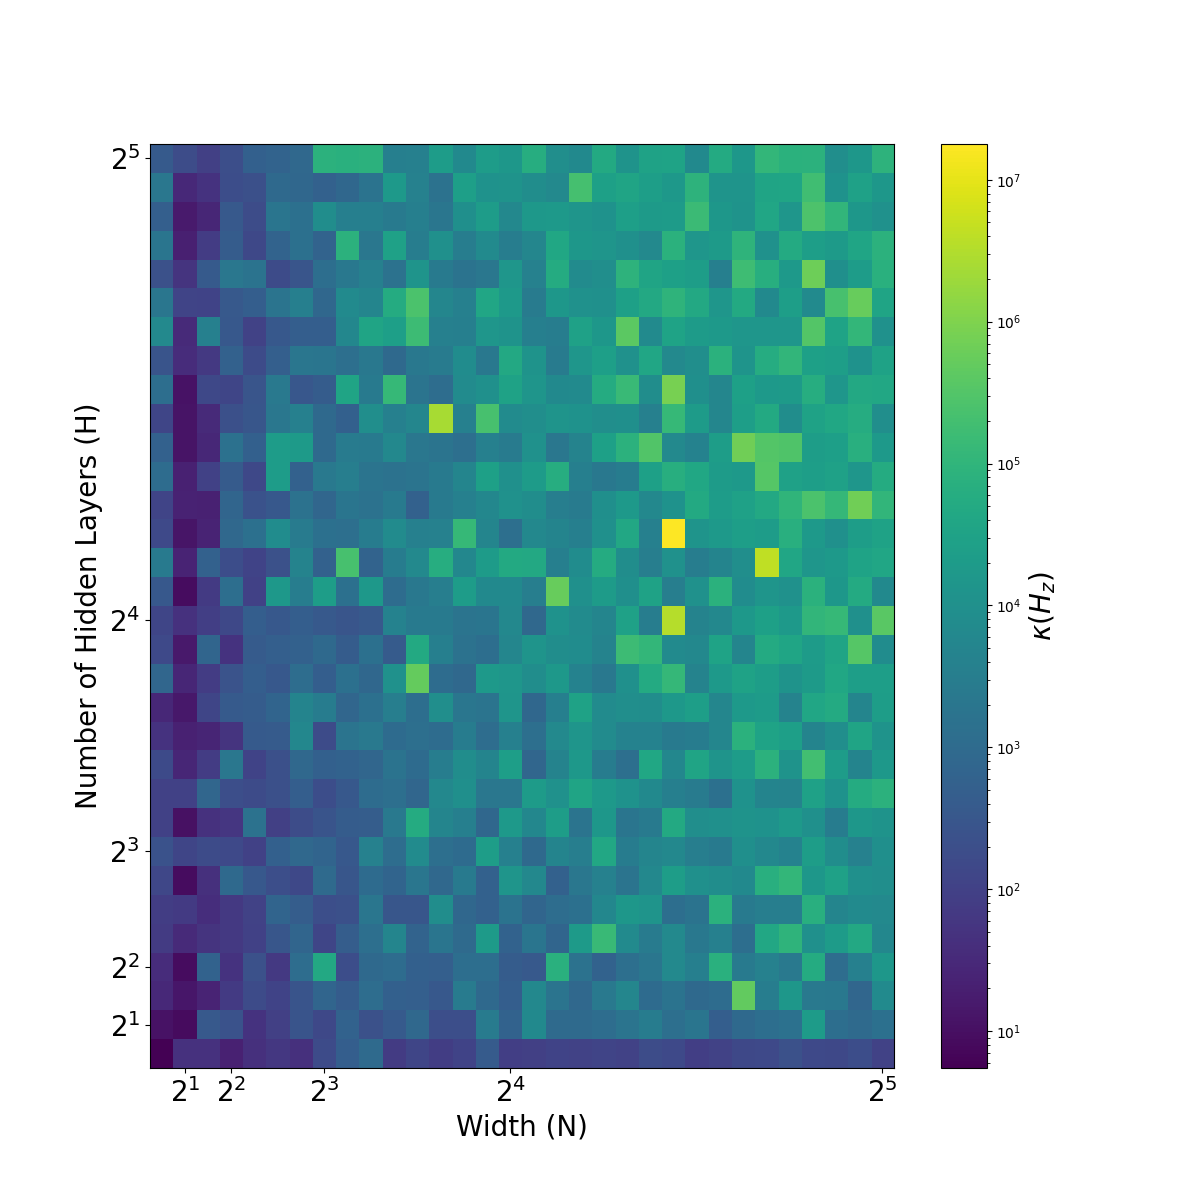
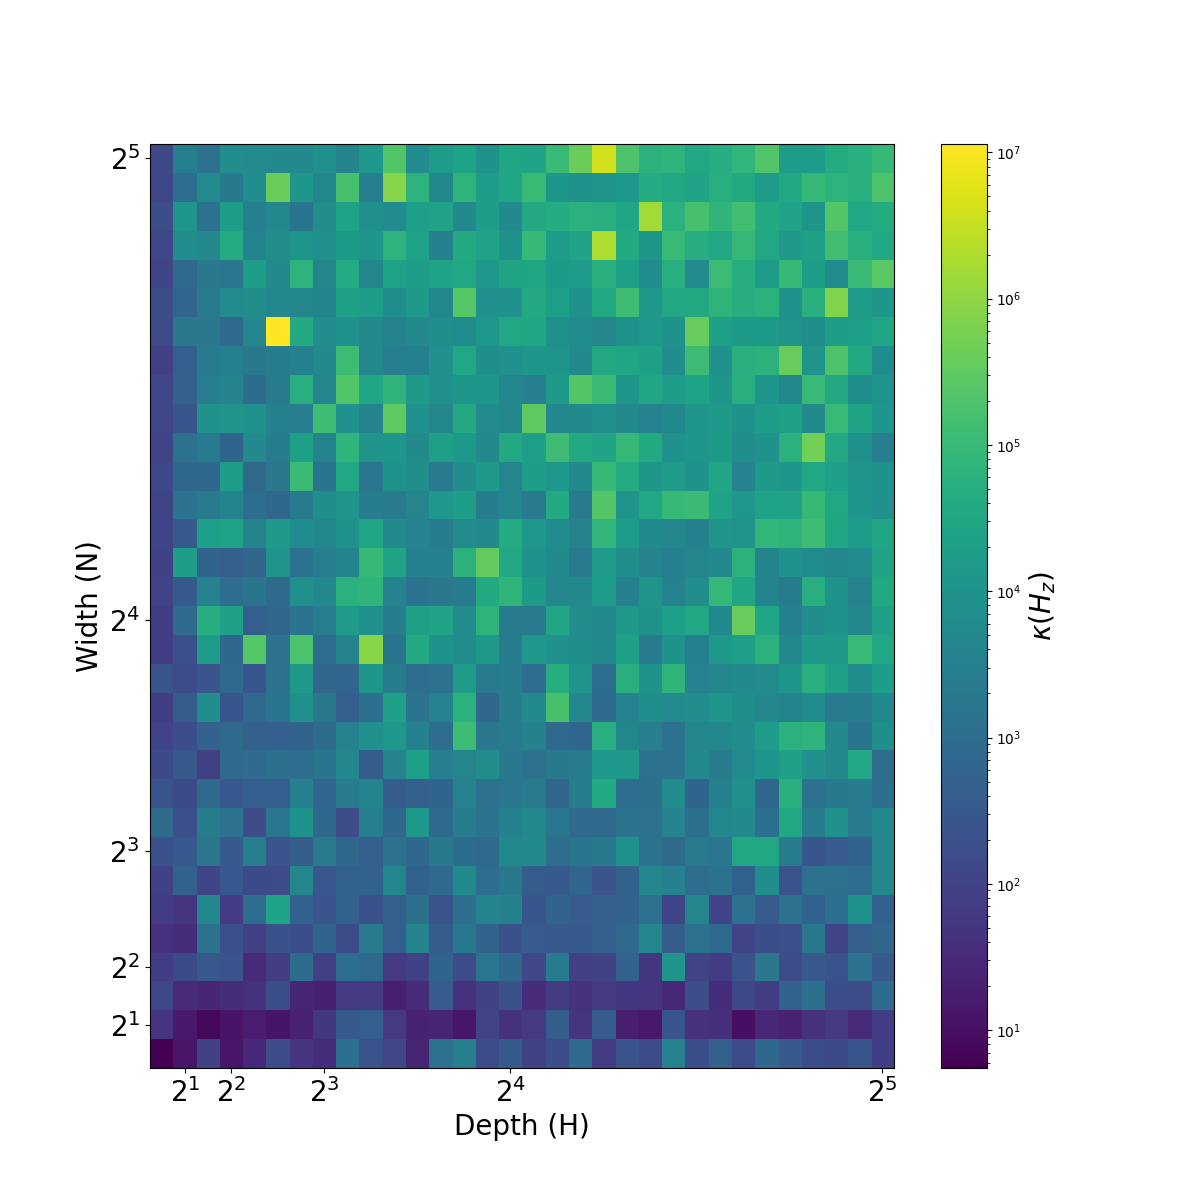
feat: Modify plotting script for activity hessian analysis

diff --git a/scripts/plot_activity_hessian.py b/scripts/plot_activity_hessian.py
@@ -20,7 +20,7 @@ def main(cfg: DictConfig) -> None:
     n_hiddens = list(range(1, 33))
 
     # Initialize a 2D array to store condition numbers
-    condition_numbers = np.zeros((len(n_hiddens), len(widths)))
+    condition_numbers = np.zeros((len(widths), len(n_hiddens)))
 
     # --- Instantiate Data (once) ---
     datamodule: LightningDataModule = hydra.utils.instantiate(cfg.data)
@@ -33,10 +33,10 @@ def main(cfg: DictConfig) -> None:
     # Get beta from config
     beta_val = cfg.analysis.solver.beta
 
-    for i, n_hidden in enumerate(n_hiddens):
-        for j, width in enumerate(widths):
+    for i, width in enumerate(widths):
+        for j, n_hidden in enumerate(n_hiddens):
 
-            print(f"\n--- Processing H={n_hidden}, N={width} ---")
+            print(f"\n--- Processing N={width}, H={n_hidden} ---")
 
             # Dynamically create network architecture parameters
             # Now pass hidden_sizes as a list
@@ -135,15 +135,15 @@ def main(cfg: DictConfig) -> None:
         origin="lower",
         aspect="auto",
         norm=mcolors.LogNorm(),
-        extent=[widths[0] - 0.5, widths[-1] + 0.5, n_hiddens[0] - 0.5, n_hiddens[-1] + 0.5]
+        extent=[n_hiddens[0] - 0.5, n_hiddens[-1] + 0.5, widths[0] - 0.5, widths[-1] + 0.5]
     )
     cbar = plt.colorbar(label=r"$\kappa(H_z)$")
     cbar.set_label(label=r"$\kappa(H_z)$", fontsize=20)
-    plt.xlabel("Width (N)", fontsize=20)
-    plt.ylabel("Number of Hidden Layers (H)", fontsize=20)
+    plt.xlabel("Depth (H)", fontsize=20)
+    plt.ylabel("Width (N)", fontsize=20)
     log_ticks = [2**i for i in range(1, 6)] # 2, 4, 8, 16, 32
-    plt.xticks(log_ticks, labels=[f"$2^{{{int(np.log2(w))}}}$" for w in log_ticks])
-    plt.yticks(log_ticks, labels=[f"$2^{{{int(np.log2(h))}}}$" for h in log_ticks])
+    plt.xticks(log_ticks, labels=[f"$2^{{{int(np.log2(h))}}}$" for h in log_ticks])
+    plt.yticks(log_ticks, labels=[f"$2^{{{int(np.log2(w))}}}$" for w in log_ticks])
     plt.tick_params(axis='x', labelsize=20)
     plt.tick_params(axis='y', labelsize=20)
     
